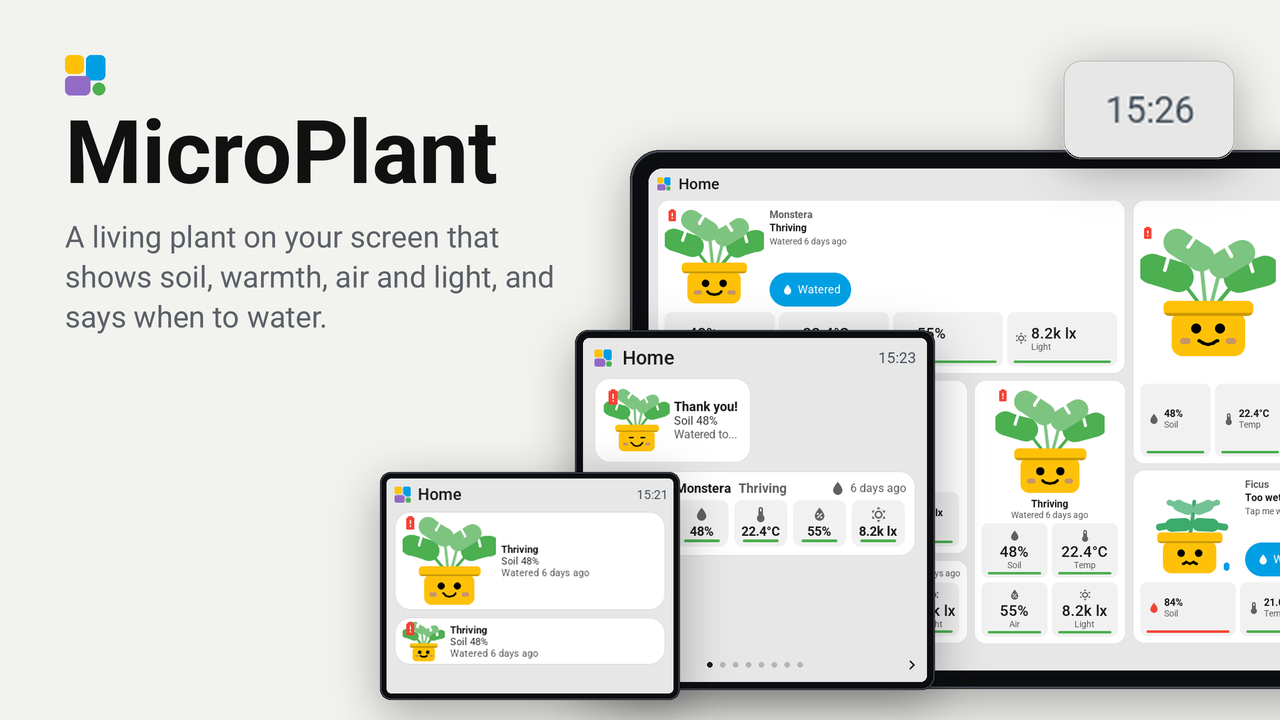
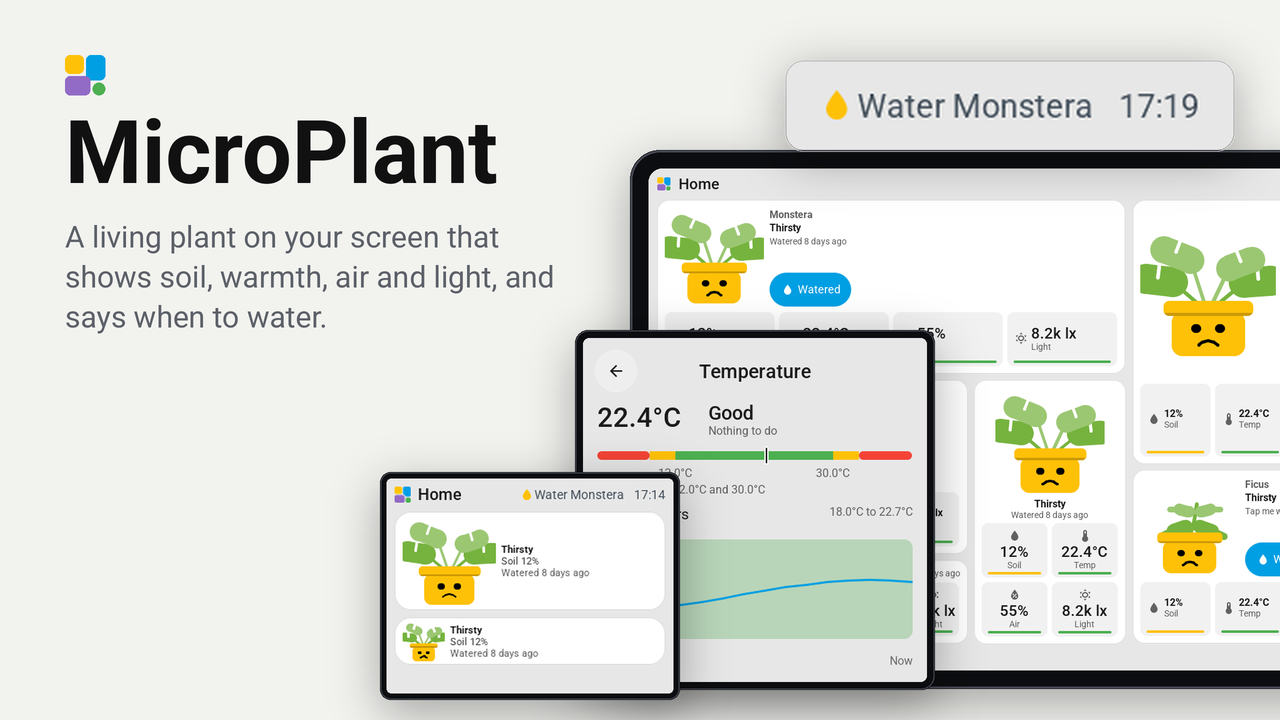
MicroPlant 0.7.1: calmer store picture, tried on the Guition
- Demo battery full, so no red battery mark on every tile.
- The bench's Monstera is a little thirsty, so the top bar loupe shows "Water Monstera" instead of a lone clock.
- The shared 24 h history is the temperature's, matching the card the store picture shows.
- README: tried on the Guition 4-inch square; STATUS updated.

diff --git a/docs/STATUS.md b/docs/STATUS.md
@@ -1,11 +1,15 @@
-# Status (2026-10-13, version 0.1.0)
+# Status (2026-10-19, version 0.7.1)
 
 ## Done and verified
 
+- **Runs on a real screen**: the Guition 4-inch square (480 x 480), where it works nicely (reported by the
+  maintainer, 2026-10-19). Listed in the README under "Tried on".
+- Merged into the plugin index as a Community plugin (tessera-plugins PR #7, 2026-10-16): every release reaches the
+  app by itself.
 - `tools/check.py` passes (`tessera-Microplant: ok`, API 0.10 checked, `store.png` present).
 - **The official bench passes**: `tools/preview.py --strict` builds the plugin with ESPHome for all four screens (cyd,
   guition, waveshare43-portrait, jc8012p4a1), renders 193 pictures and ends with 0 warnings. What is left are notes
-  only: sizes a grid cannot hold, and the `thirsty` bar item showing nothing with the bench's data.
+  only: sizes a grid cannot hold. Since 0.7.1 the bench's Monstera is a little thirsty, so the `thirsty` bar item shows.
 - `store.png` made by `tools/store_image.py` from that run.
 - C++ also compiles warning-free in `dev/host-harness` (cloud session) against Tessera **dev**'s headers, LVGL 9.5.0
   and ArduinoJson 7.4.2; `model_test.cpp` passes there. Its `deps/` are not on the Windows PC, so it cannot run there
@@ -32,9 +36,9 @@
 
 ## Not verified yet
 
-- Never on a real screen. Untested: real tap coordinates, animation smoothness on an RGB panel, memory/flash on the
-  CYD, the HA websocket answers' real shape (`history_during_period` compressed rows, statistics ms timestamps), °F
-  sensors, the Italian texts on glass.
+- Tried on glass only on the Guition. Not checked one by one yet: memory/flash on the CYD, the other boards, the HA
+  websocket answers' real shape (`history_during_period` compressed rows, statistics ms timestamps), °F sensors, the
+  Italian texts on glass.
 - **Report upstream**: the firmware drops a plugin tile's entity of a domain it has no tile for (`plant`), see
   DESIGN.md "Plant Monitor". MicroPlant guesses the id from the plant's name meanwhile; a renamed entity id breaks it.
 - **Suggest upstream, after measuring** (`rendered_frames` on a Guition): for the ESP32-S3 RGB boards only,
@@ -48,9 +52,8 @@
 
 ## Next steps
 
-1. Put a screen on Tessera's dev channel, add the repo with **Add with a link**, place the Plant tile, test taps,
-   watering with an `input_datetime`, offline behaviour and the card history.
-2. Push to GitHub (`alexscemo/tessera-Microplant` or similar); a release once it works.
+1. Try it on another board (a CYD first, for memory) and add it to the README's "Tried on" line.
+2. Release 0.7.1 for the calmer store picture.
 
 ## Ideas not done
 

diff --git a/CHANGELOG.md b/CHANGELOG.md
@@ -1,5 +1,10 @@
 # Changelog
 
+## 0.7.1 - 2026-10-19
+- A calmer store picture: the demo battery is full, so the red battery mark no longer shows on every tile, and the
+  Monstera is a little thirsty, so the top bar's loupe shows "Water Monstera" instead of a lone clock.
+- The README says which screens it was tried on: the Guition 4-inch square, where it works nicely.
+
 ## 0.7.0 - 2026-10-17
 - The plant looks like its kind: a monstera with big split leaves, a snake plant with upright blades, a cactus with
   its arms (and a flower when it does well), a spider plant's arching leaves, a pothos with vines over the rim, a

diff --git a/README.md b/README.md
@@ -6,6 +6,10 @@ sweating in the heat, shivering in the cold, asleep in the dark. Tap it when you
 
 Made for the 4-inch square screens (480 x 480), and drawn for every size from one cell to a page of its own.
 
+**Tried on:** the Guition 4-inch square screen (480 x 480), where it works nicely. The other screens are drawn by
+Tessera's bench (the CYD, the Waveshare 4.3-inch portrait and the JC8012P4A1) but not tried on glass yet; a line in an
+issue helps if you run it on one.
+
 ## What you see
 
 - **The plant**, in the middle of the tile. Its mood follows the reading that is furthest out of its range, the soil
